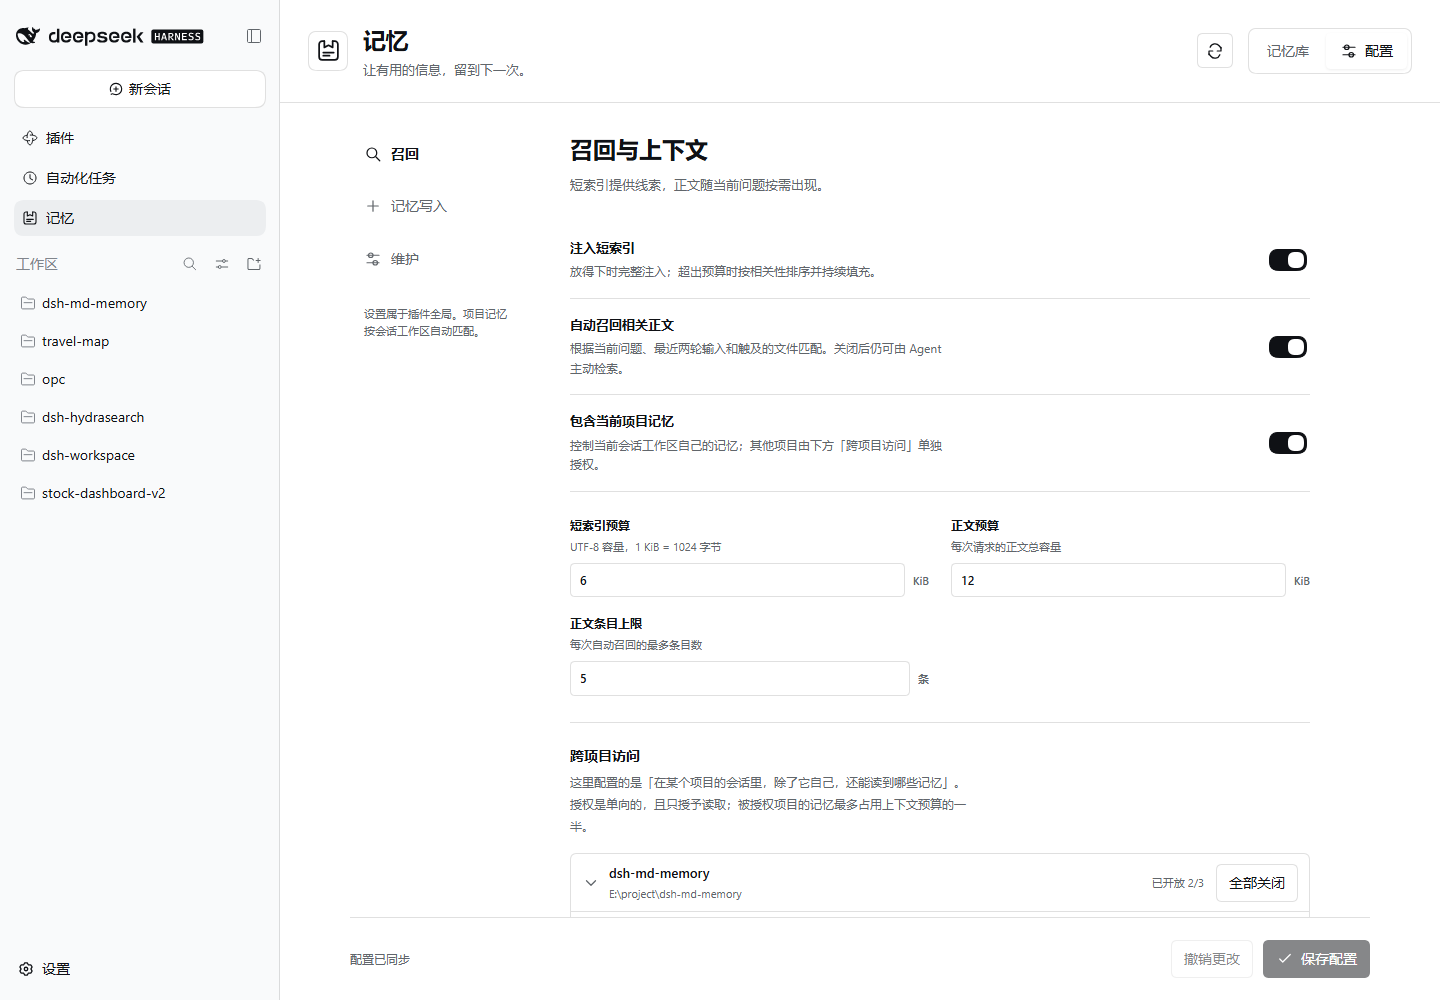
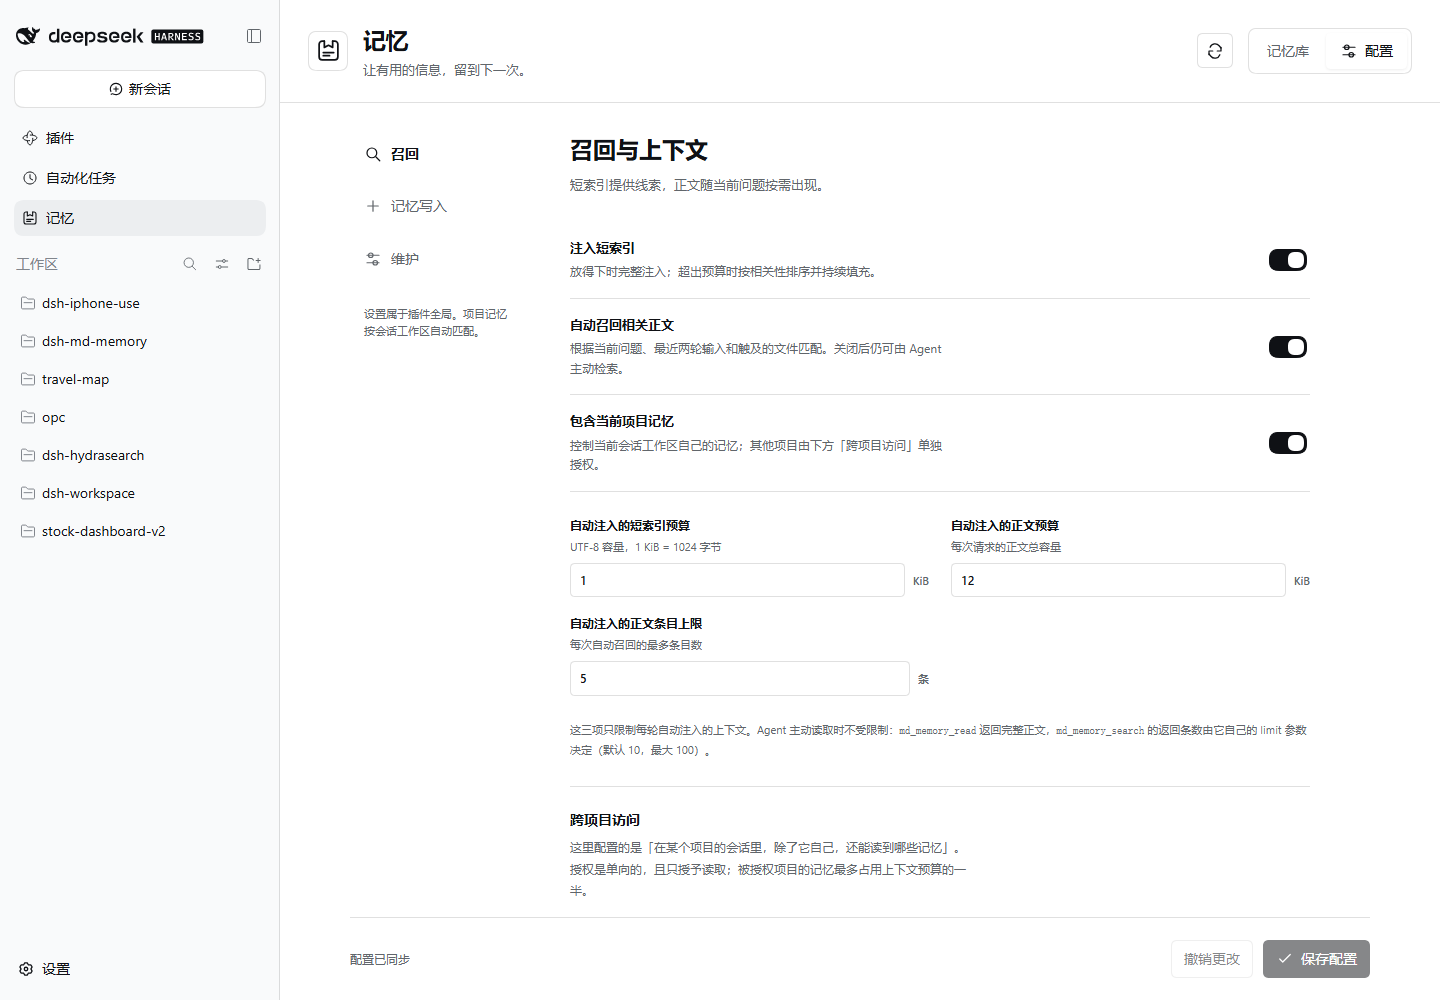
docs(release): 0.6.0 安装与验收记录，更新桌面端截图
release/INSTALLATION-0.6.0.md 记录安装包哈希、profile 依赖改动、安装前备份路径与三条产物哈希比对结果，并写明 reset 是宿主侧新路由、重启前调用会 404。

release/ui 是 desktop-browser 打到真实 GUI 的验收截图与结果：新增 desktop-installed-wipe.png（项目范围出现清空入口、弹窗可取消），desktop-result.json 增加 wipe: true。

diff --git a/release/INSTALLATION-0.6.0.md b/release/INSTALLATION-0.6.0.md
@@ -1,0 +1,18 @@
+# 0.6.0 安装记录
+
+2026-10-10，本机 DSH Desktop 已安装 0.6.0（整项目清空 + 弹窗确认）。
+
+- 安装包：`E:/project/dsh-md-memory/release/dsh-md-memory-0.6.0.tgz`（275,306 字节）
[1 lines of base64/hex data omitted]
+- 桌面 profile：`C:/Users/89123/.dsh/profiles/desktop`
+- 依赖改动：`"dsh-md-memory": "file:E:/project/dsh-md-memory/release/dsh-md-memory-0.5.3.tgz"` → `…dsh-md-memory-0.6.0.tgz`，随后在该 profile 目录执行 `pnpm install --ignore-scripts`
+- 安装前配置备份：`C:/Users/89123/.dsh/backups/md-memory-0.6.0-install-20261010-120802`
+- 提交：`b67c31f`（已推送到 `origin/main`），功能设计见 [DESIGN.md §12.3](../DESIGN.md)
+
+功能：管理页「记忆库」标题栏新增「清空项目记忆」（只对项目范围开放，弹窗显示范围名、路径与条数后确认），`POST /api/md-memory/reset` 删除该项目目录里除 `PROJECT.md` 与写锁之外的一切并重建空索引、同时丢弃排队中的提炼任务。语义与代价见 DESIGN.md §12.3。
+
+验证：`npm run check`（121 项测试 + typecheck + build）、`npm run test:host`、`npm run test:compat`（RC 0.2.0-rc.2 与 Alpha 0.2.1-alpha.1）与 `node tests/ui-browser.mjs` 全绿。
+
+安装后核对：profile 依赖为 0.6.0，`node_modules/dsh-md-memory/package.json` 版本 0.6.0，`lib/index.js`、`lib/core.js`、`lib/client.js` 三个产物与仓库构建的 SHA-256 逐一相同，插件入口 import 成功。`node tests/desktop-browser.mjs` 在**未重启**的宿主上通过（新客户端 bundle 已按需生效：项目范围出现清空入口、弹窗可打开与取消、用户范围没有该入口，结果写入 `release/ui/desktop-result.json` 的 `wipe: true`）。
+
+⚠ 安装时 DSH 正在运行，尚未重启。**`/api/md-memory/reset` 是宿主侧新路由，只在进程启动时加载**：重启前在记忆页点「确认删除」会返回 HTTP 404。宿主侧清空能力须重启 DSH 后生效；`desktop-browser` 只覆盖了客户端界面，未把重启后的真实清空当作已验证。
